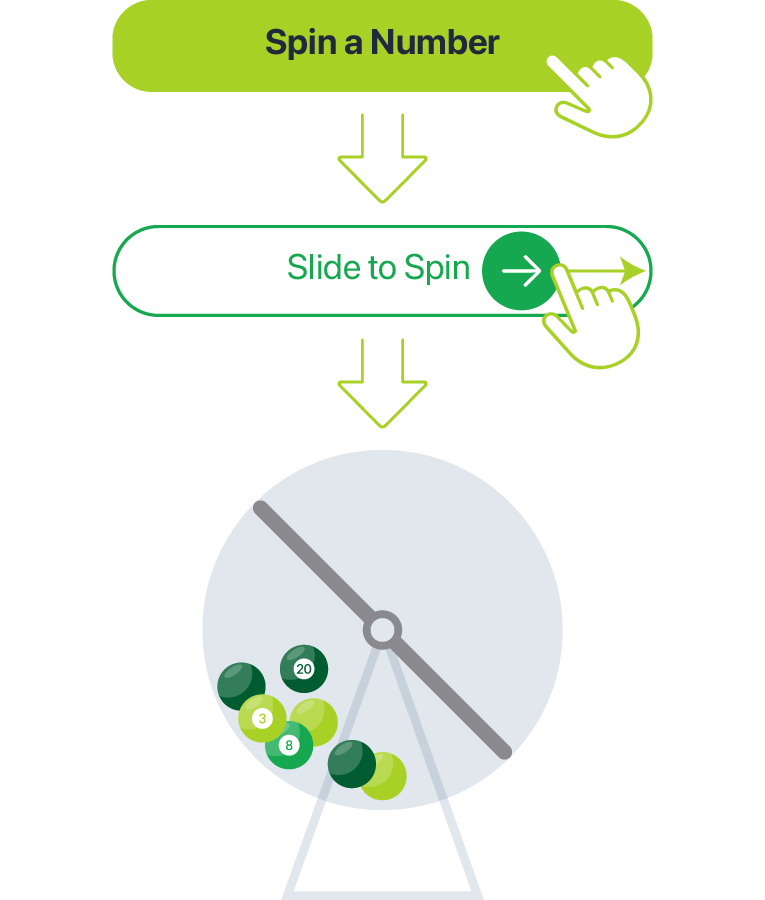
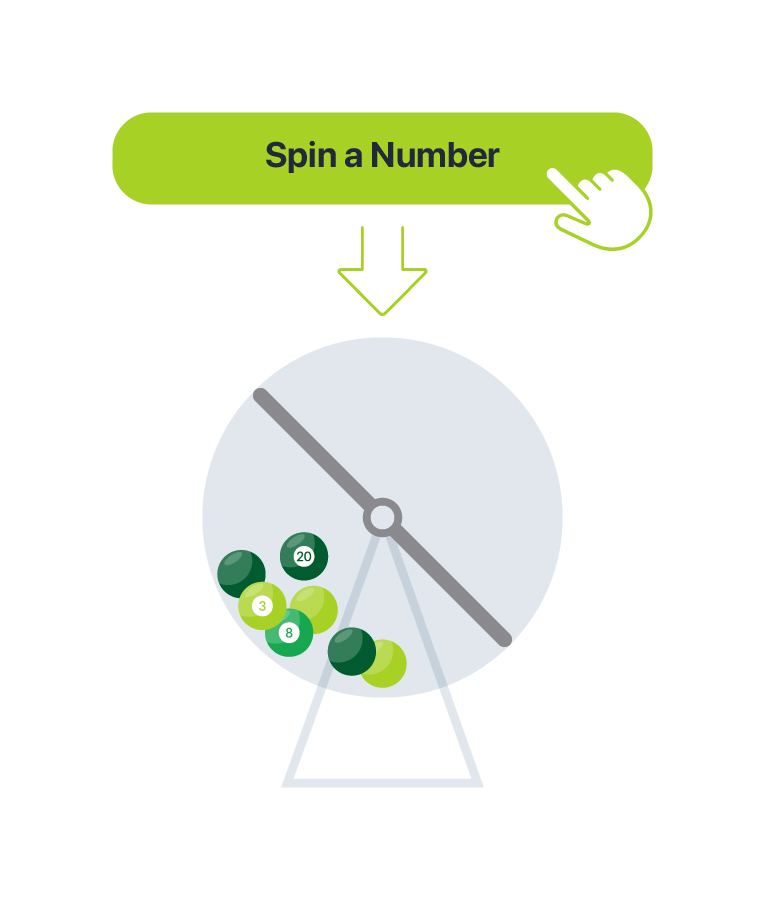
-modify for gameCenter

diff --git a/components/gameCenter/spinComponent.js b/components/gameCenter/spinComponent.js
@@ -7,105 +7,11 @@ import globalStyles from '../../styles/globalStyles';
 
 
 const SpinComponent = (props) => {
-    const [spinProgress, setSpinProgress] = useState(false);
-
-    const spinImageDisplay = () => {
-        if(spinProgress){
-            return require('../../resources/images/gameCenter/2x/img-spinner-animate-2x.gif')
-        }
-        return require('../../resources/images/gameCenter/img-spinner-static.png');
-    }
-
-    const textDisplay = () => {
-        if(spinProgress){
-            return 'Number Rolling'
-        }
-        return 'Tab to Spin'
-    }
-
-    const nextTextDisplay = () => {
-        if(spinProgress){
-            return 'Continue'
-        }
-        return 'Cancel'
-    }
-
-    const nextFunc = () => {
-        if(spinProgress){
-            props.processSpin();
-        }else{
-            props.closeModal();
-        }
-    }
-
-    const backgroundStyle = () => {
-        if(spinProgress){
-            return styles.sliderBackgroundRevert
-        }
-        return styles.sliderBackground
-    }
-
-    const textStyle = () => {
-        if(spinProgress){
-            return [GameCenterStyles.subText, GameCenterStyles.whiteText]
-        }
-        return [GameCenterStyles.subText, GameCenterStyles.darkGreen]
-    }
-
     return (
         <View style={[GameCenterStyles.card, GameCenterStyles.cardPadding]}>
-            <Image resizeMode="contain" style={GameCenterStyles.spinLogo} source={spinImageDisplay()}/>
-
-            <View style={styles.sliderContainer}>
-                <TouchableOpacity style={backgroundStyle()} disabled={spinProgress} onPress={() => {setSpinProgress(true)}}>
-                    <Text style={textStyle()}>{textDisplay()}</Text>
-                </TouchableOpacity>
-            </View>
-
-            <TouchableOpacity style={styles.press} onPress={() => {nextFunc()}}>
-                <Text style={globalStyles.actionButtonText}>{nextTextDisplay()}</Text>
-            </TouchableOpacity>
-
+            <Image resizeMode="contain" style={GameCenterStyles.spinLogo} source={require('../../resources/images/gameCenter/2x/img-spinner-animate-2x.gif')}/>
         </View>
     );
 };
 
 export default SpinComponent;
-
-const styles = StyleSheet.create({
-    sliderContainer:{
-        marginTop:"2%",
-        justifyContent:'center',
-        alignItems:'center',
-        borderRadius: 50,
-        height:80,
-        overflow: 'hidden',
-    },
-    sliderBackground: {
-        backgroundColor: Colors.gameColorWhite,
-        width: '87%',
-        height: 80,
-        borderRadius: 50,
-        borderColor:Colors.gameColorDarkGreen,
-        borderWidth:2,
-        position: 'absolute',
-        justifyContent: 'center',
-        alignItems:'center',
-    },
-    sliderBackgroundRevert: {
-        backgroundColor: Colors.gameColorDarkGreen,
-        width: '87%',
-        height: 80,
-        borderRadius: 50,
-        position: 'absolute',
-        justifyContent: 'center',
-        alignItems:'center',
-    },
-    slider:{
-        width:'75%',
-        position: 'absolute',
-    },
-    press:{
-        marginTop: '2%',
-    }
-});

diff --git a/screens/main/gameCenter/fillTheCard.js b/screens/main/gameCenter/fillTheCard.js
@@ -97,6 +97,13 @@ const FillTheCard = (props) => {
         }
     }
 
+    const startSpin = async () => {
+        setShowSpin(true);
+        setTimeout(processSpin,
+            1000
+        )
+    }
+
     return (
         <View style={{...globalStyles.pageContainer, ...props.style}}>
             <View style={globalStyles.menuBarContainer}>
@@ -143,7 +150,7 @@ const FillTheCard = (props) => {
             <TouchableOpacity
                 style={[GameCenterStyles.buttonStyleNarrow, colorOfSpin(disableSpin())]}
                 disabled={disableSpin()}
-                onPress={() => {setShowSpin(true)}}>
+                onPress={() => {startSpin()}}>
                 <Text style={globalStyles.actionButtonText}>Spin a Number</Text>
             </TouchableOpacity>
 
@@ -157,8 +164,7 @@ const FillTheCard = (props) => {
                         setShowFinish(true);
                         setReadyFinish(false);
                     }
-                }}
-            >
+                }}>
 
                 <SpinComponent processSpin={() => processSpin()} closeModal={() => setShowSpin(false)} />
 

diff --git a/components/gameCenter/redeemConfirmPage.js b/components/gameCenter/redeemConfirmPage.js
@@ -24,7 +24,7 @@ const enablePlus = (quantity, item_point, total_points) => {
 
 
 const RedeemConfirmPage = (props) => {
-    const {item, points, redeemHandler} = props;
+    const {item, points, redeemHandler, closeModal} = props;
 
     const [quantity, setQuantity] = useState(1);
 
@@ -60,6 +60,11 @@ const RedeemConfirmPage = (props) => {
                 style={[GameCenterStyles.buttonStyleNarrow, GameCenterStyles.nextColor, {marginTop: '3%'}]}
                 onPress={() => {redeemHandler(item._id, quantity)}}>
                 <Text style={globalStyles.actionButtonText}>Redeem</Text>
+            </TouchableOpacity>
+            <TouchableOpacity
+                style={[GameCenterStyles.buttonStyleNarrow, GameCenterStyles.backColor, {marginTop: '3%'}]}
+                onPress={() => {closeModal()}}>
+                <Text style={globalStyles.actionButtonText}>Cancel</Text>
             </TouchableOpacity>
         </View>
     );

diff --git a/screens/main/gameCenter/redeemPage.js b/screens/main/gameCenter/redeemPage.js
@@ -157,7 +157,7 @@ const RedeemPage = (props) => {
                         setReadyRedeemSuccess(false);
                     }
                 }}>
-                <RedeemConfirmPage item={currentItem} points={availablePoint} redeemHandler={redeemHandler}/>
+                <RedeemConfirmPage item={currentItem} points={availablePoint} redeemHandler={redeemHandler} closeModal={() => setShowRedeemConfirm(false)}/>
             </Modal>
 
             <Modal

diff --git a/screens/patientRoot.js b/screens/patientRoot.js
@@ -144,6 +144,13 @@ class PatientRoot extends Component {
               headerShown: false,
             }}
           />
+          <Stack.Screen
+            name="RedeemPage"
+            component={RedeemPage}
+            options={{
+              headerShown: false,
+            }}
+          />
         </>
       </Stack.Navigator>
     );

diff --git a/styles/gameCenterStyles.js b/styles/gameCenterStyles.js
@@ -56,7 +56,6 @@ const GameCenterStyles = StyleSheet.create({
         marginVertical: '2%',
         marginHorizontal: '10%',
         alignSelf: 'stretch',
-        marginBottom: '15%',
         padding: '3%',
     },
     darkGreenColor:{
